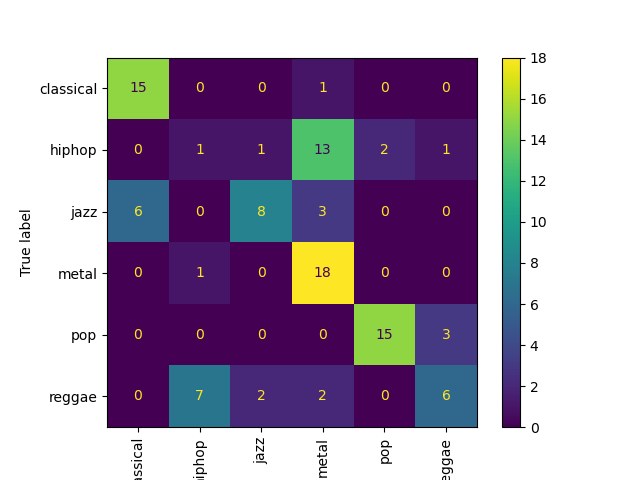
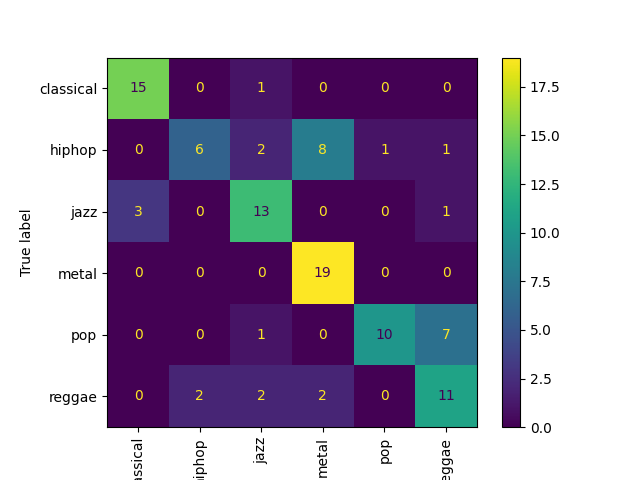
Encoders LSTM GRU

diff --git a/LSTM-Music-Genre-Classification-master/LSTM-Music-Genre-Classification-master/GRUEncoder.py b/LSTM-Music-Genre-Classification-master/LSTM-Music-Genre-Classification-master/GRUEncoder.py
@@ -52,7 +52,7 @@ class LSTM(nn.Module):
         self.num_layers = num_layers
 
         # setup LSTM layer
-        self.lstm = nn.GRU(self.input_dim, self.hidden_dim, self.num_layers, dropout = 0.5, bias = False) #dropout = 0.5)
+        self.lstm = nn.GRU(self.input_dim, self.hidden_dim, self.num_layers, bias = False, dropout = 0.5)
 
         # ---------------------batchnormalisation---------------------------------------
         self.batch = nn.BatchNorm1d(num_features = self.hidden_dim)
@@ -61,27 +61,47 @@ class LSTM(nn.Module):
         self.linear = nn.Linear(self.hidden_dim, output_dim)
 
         self.encoder_mfcc = nn.Sequential(
-            nn.Conv2d(128, 64, kernel_size=(3, 3), padding="same"),
+            nn.Conv2d(128, 64, kernel_size=5, padding="same"),
             nn.ReLU(),
-            nn.Conv2d(64, 32, kernel_size=(3, 3), padding="same"),
+            nn.Conv2d(64, 32, kernel_size=5, padding="same"),
             nn.ReLU(),
-            nn.Conv2d(32, 64, kernel_size=(3, 3), padding="same"),
+            nn.Conv2d(32, 64, kernel_size=5, padding="same"),
             nn.ReLU(),
-            nn.Conv2d(64, 128, kernel_size=(3, 3), padding="same"),
+            nn.Conv2d(64, 128, kernel_size=5, padding="same"),
             nn.ReLU()
         )
 
         self.encoder_chroma = nn.Sequential(
-            nn.Conv2d(128, 64, kernel_size=5, padding="same"),
+            nn.Conv2d(128, 64, kernel_size=5, padding=2),
             nn.ReLU(),
-            nn.AvgPool2d(kernel_size=(1, 1), stride=(1, 1)),
-            nn.Conv2d(64, 32, kernel_size=5, padding="same"),
+            nn.AvgPool2d(kernel_size=5, stride=1, padding=2),
+            nn.Conv2d(64, 32, kernel_size=5, padding=2),
             nn.ReLU(), 
-            nn.AvgPool2d(kernel_size=(1, 1), stride=(1, 1)),
-            nn.Conv2d(32, 64, kernel_size=5, padding="same"),
+            nn.AvgPool2d(kernel_size=5, stride=1, padding=2),
+            nn.Conv2d(32, 16, kernel_size=5, padding=2),
             nn.ReLU(),
-            nn.AvgPool2d(kernel_size=(1, 1), stride=(1, 1)),
-            nn.Conv2d(64, 128, kernel_size=5, padding="same"),
+            nn.AvgPool2d(kernel_size=5, stride=1, padding=2),
+            nn.Conv2d(16, 32, kernel_size=5, padding=2),
+            nn.ReLU(), 
+            nn.AvgPool2d(kernel_size=5, stride=1, padding=2),
+            nn.Conv2d(32, 64, kernel_size=5, padding=2),
+            nn.ReLU(),
+            nn.AvgPool2d(kernel_size=5, stride=1, padding=2),
+            nn.Conv2d(64, 128, kernel_size=5, padding=2),
+            nn.ReLU()
+        )
+
+        self.encoder_spectral = nn.Sequential(
+            nn.Conv2d(128, 64, kernel_size=5, padding=2),
+            nn.ReLU(),
+            nn.AvgPool2d(kernel_size=5, stride=1, padding=2),
+            nn.Conv2d(64, 32, kernel_size=5, padding=2),
+            nn.ReLU(), 
+            nn.AvgPool2d(kernel_size=5, stride=1, padding=2),
+            nn.Conv2d(32, 64, kernel_size=5, padding=2),
+            nn.ReLU(),
+            nn.AvgPool2d(kernel_size=5, stride=1, padding=2),
+            nn.Conv2d(64, 128, kernel_size=5, padding=2),
             nn.ReLU()
         )
 
@@ -89,23 +109,21 @@ class LSTM(nn.Module):
         # lstm step => then ONLY take the sequence's final timetep to pass into the linear/dense layer
         # Note: lstm_out contains outputs for every step of the sequence we are looping over (for BPTT)
         # but we just need the output of the last step of the sequence, aka lstm_out[-1]
-        print(input.grad) 
         input1 = torch.clone(input)
-        print(input1.grad) 
-        mfcc = input[:, :, 0:13]
-        mfcc = self.encoder_mfcc(mfcc)
-        input1[:, :, 0:13] = mfcc
+        # mfcc = input[:, :, 0:13]
+        # mfcc = self.encoder_mfcc(mfcc)
+        # input1[:, :, 0:13] = mfcc
         chroma = input[:, :, 14:26]
         chroma = self.encoder_chroma(chroma)
         input1[:, :, 14:26] = chroma
         spectral_contrast = input[:, :, 26:33]
-        spectral_contrast = self.encoder_chroma(spectral_contrast)
+        spectral_contrast = self.encoder_spectral(spectral_contrast)
         input1[:, :, 26:33] = spectral_contrast
         device = torch.device("cuda:0" if torch.cuda.is_available() else "cpu")
         input1 = input1.to(device)
         lstm_out, hidden = self.lstm(input1, h)
-        print(lstm_out.size())
-        logits = self.linear(lstm_out[-1])              # equivalent to return_sequences=False from Keras
+        # logits = self.batch(lstm_out[-1])              # equivalent to return_sequences=False from Keras
+        logits = self.linear(lstm_out[-1])
         genre_scores = F.log_softmax(logits, dim=1)
         return genre_scores, hidden
     

diff --git a/LSTM-Music-Genre-Classification-master/LSTM-Music-Genre-Classification-master/lstm_genre_classifier_pytorch.py b/LSTM-Music-Genre-Classification-master/LSTM-Music-Genre-Classification-master/lstm_genre_classifier_pytorch.py
@@ -41,40 +41,70 @@ class LSTM(nn.Module):
         self.num_layers = num_layers
 
         # setup LSTM layer
-        self.lstm = nn.LSTM(self.input_dim, self.hidden_dim, self.num_layers, bias=False, dropout=0.5)
+        self.lstm = nn.LSTM(self.input_dim, self.hidden_dim, self.num_layers, bias = False) #dropout = 0.5)
 
-        # batchnormalisation
-        self.batch = nn.BatchNorm1d(num_features=self.hidden_dim)
+        # ---------------------batchnormalisation---------------------------------------
+        self.batch = nn.BatchNorm1d(num_features = self.hidden_dim)
 
         # setup output layer
         self.linear = nn.Linear(self.hidden_dim, output_dim)
 
         self.encoder_mfcc = nn.Sequential(
-            nn.Conv2d(128, 64, kernel_size=(3, 3), padding="same"),
+            nn.Conv2d(128, 128, kernel_size=5, padding="same"),
             nn.ReLU(),
-            nn.Conv2d(64, 32, kernel_size=(3, 3), padding="same"),
-            nn.ReLU()
+            nn.Dropout(0.5)
         )
 
         self.encoder_chroma = nn.Sequential(
-            nn.Conv2d(128, 64, kernel_size=5, padding="same"),
+            nn.Conv2d(128, 64, kernel_size=5, padding=2),
             nn.ReLU(),
-            nn.AvgPool2d(kernel_size=(1, 1), stride=(1, 1)),
-            nn.Conv2d(64, 32, kernel_size=5, padding="same"),
-            nn.ReLU()
+            nn.AvgPool2d(kernel_size=5, stride=1, padding=2),
+            nn.Conv2d(64, 32, kernel_size=5, padding=2),
+            nn.ReLU(), 
+            nn.AvgPool2d(kernel_size=5, stride=1, padding=2),
+            nn.Conv2d(32, 16, kernel_size=5, padding=2),
+            nn.ReLU(),
+            nn.AvgPool2d(kernel_size=5, stride=1, padding=2),
+            nn.Conv2d(16, 32, kernel_size=5, padding=2),
+            nn.ReLU(), 
+            nn.AvgPool2d(kernel_size=5, stride=1, padding=2),
+            nn.Conv2d(32, 64, kernel_size=5, padding=2),
+            nn.ReLU(),
+            nn.AvgPool2d(kernel_size=5, stride=1, padding=2),
+            nn.Conv2d(64, 128, kernel_size=5, padding=2),
+            nn.ReLU(), 
+            nn.Dropout(0.5)
+        )
+
+        self.encoder_spectral = nn.Sequential(
+            nn.Conv2d(128, 64, kernel_size=5, padding=2),
+            nn.ReLU(),
+            nn.AvgPool2d(kernel_size=5, stride=1, padding=2),
+            nn.Conv2d(64, 32, kernel_size=5, padding=2),
+            nn.ReLU(), 
+            nn.AvgPool2d(kernel_size=5, stride=1, padding=2),
+            nn.Conv2d(32, 64, kernel_size=5, padding=2),
+            nn.ReLU(),
+            nn.AvgPool2d(kernel_size=5, stride=1, padding=2),
+            nn.Conv2d(64, 128, kernel_size=5, padding=2),
+            nn.ReLU(),
+            nn.Dropout(0.5)
         )
 
     def forward(self, input, h, c):
-        input1 = torch.zeros([32, input.size()[1], input.size()[2]])
+        # lstm step => then ONLY take the sequence's final timetep to pass into the linear/dense layer
+        # Note: lstm_out contains outputs for every step of the sequence we are looping over (for BPTT)
+        # but we just need the output of the last step of the sequence, aka lstm_out[-1]
+        input1 = torch.clone(input)
         mfcc = input[:, :, 0:13]
         mfcc = self.encoder_mfcc(mfcc)
         input1[:, :, 0:13] = mfcc
         chroma = input[:, :, 14:26]
         chroma = self.encoder_chroma(chroma)
         input1[:, :, 14:26] = chroma
-        spectral_contrast = input[:, :, 27:33]
-        spectral_contrast = self.encoder_chroma(spectral_contrast)
-        input1[:, :, 27:33] = spectral_contrast
+        spectral_contrast = input[:, :, 26:33]
+        spectral_contrast = self.encoder_spectral(spectral_contrast)
+        input1[:, :, 26:33] = spectral_contrast
         device = torch.device("cuda:0" if torch.cuda.is_available() else "cpu")
         input1 = input1.to(device)
         out, (h, c) = self.lstm(input1, (h, c))

diff --git a/LSTM-Music-Genre-Classification-master/LSTM-Music-Genre-Classification-master/GenreFeatureData.py b/LSTM-Music-Genre-Classification-master/LSTM-Music-Genre-Classification-master/GenreFeatureData.py
@@ -12,6 +12,8 @@ class GenreFeatureData:
     hop_length = None
     genre_list = [
         "classical",
+        "country",
+        "disco",
         "hiphop",
         "jazz",
         "metal",
@@ -49,13 +51,13 @@ class GenreFeatureData:
         self.all_files_list.extend(self.testfiles_list)
 
         # compute minimum timeseries length, slow to compute, caching pre-computed value of 1290
-        self.precompute_min_timeseries_len()
-        print("min(self.timeseries_length_list) ==" + str(min(self.timeseries_length_list)))
-        self.timeseries_length = min(self.timeseries_length_list)
+        # self.precompute_min_timeseries_len()
+        # print("min(self.timeseries_length_list) ==" + str(min(self.timeseries_length_list)))
+        # self.timeseries_length = min(self.timeseries_length_list)
 
-        # self.timeseries_length = (
-        #     128
-        # )   # sequence length == 128, default fftsize == 2048 & hop == 512 @ SR of 22050
+        self.timeseries_length = (
+            128
+        )   # sequence length == 128, default fftsize == 2048 & hop == 512 @ SR of 22050
         #  equals 128 overlapped windows that cover approx ~3.065 seconds of audio, which is a bit small!
 
     def load_preprocess_data(self):
